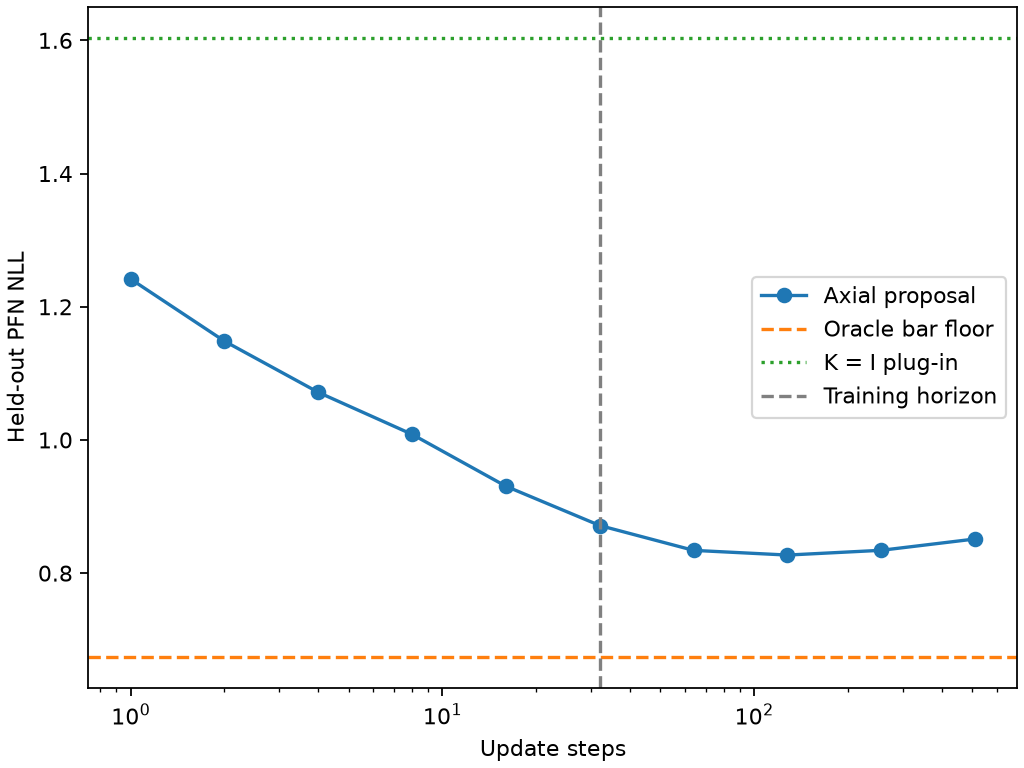
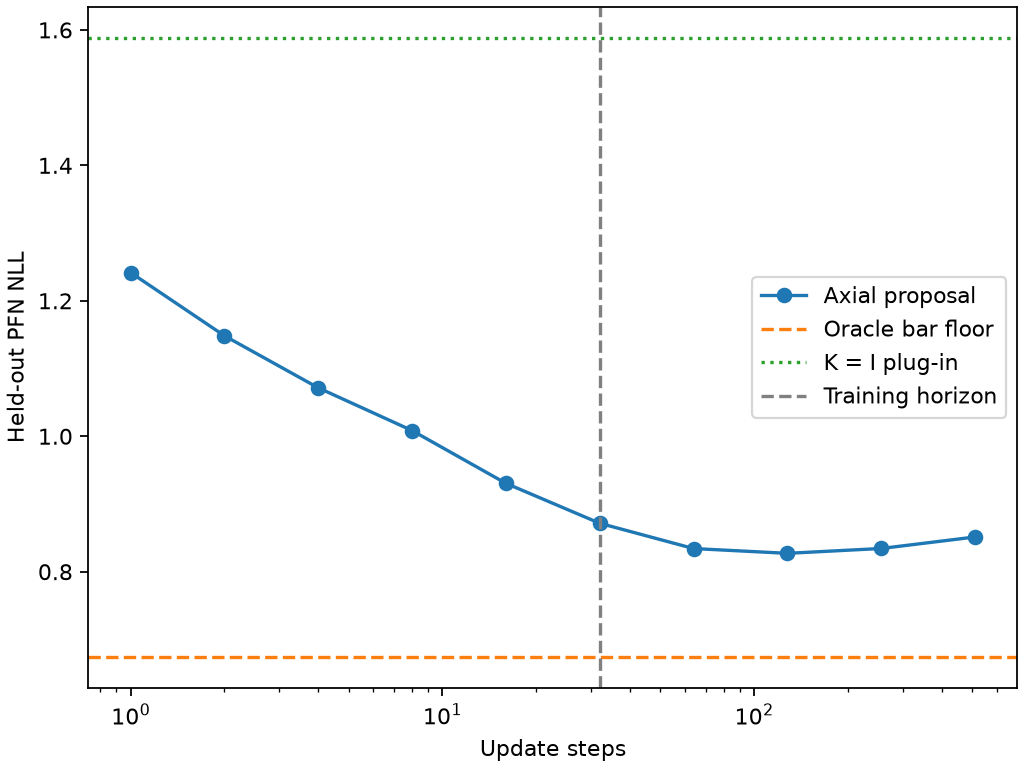
fix simple baseline

diff --git a/runs/identity-nll-patch/patch_images.py b/runs/identity-nll-patch/patch_images.py
@@ -1,0 +1,108 @@
+"""Replay held-out episodes and refresh the two identity NLL plot lines."""
+
+import csv
+import json
+from pathlib import Path
+from tempfile import TemporaryDirectory
+
+import equinox as eqx
+import jax
+import jax.numpy as jnp
+import numpy as np
+
+from experiments.attention_proposal.baselines import (
+    _HIGHEST,
+    _normal_bar_log_masses,
+    _variance_grid,
+)
+from experiments.attention_proposal.run import (
+    sample_structured_episode,
+    write_evaluation,
+)
+from navi.distribution import FullSupportBarDistribution
+from navi.simulation import power_law_eigenvalues
+
+
+@eqx.filter_jit
+def identity_scores(distribution, episode):
+    observations = episode.inputs.observations[:, 0]
+    targets = episode.inputs.targets
+    genetic, residual = _variance_grid(observations.dtype)
+    total = genetic + residual
+    squared = jnp.dot(observations, observations, precision=_HIGHEST)
+    evidence = -0.5 * (observations.size * jnp.log(total) + squared / total)
+    plugin = jnp.sum(jax.nn.softmax(evidence) * genetic)
+    diagonal = jnp.sum(episode.query_factor**2, axis=-1)
+    edges = jnp.asarray(distribution.edges, dtype=observations.dtype)
+    means = jnp.zeros_like(targets)
+    old = _normal_bar_log_masses(means, jnp.full_like(targets, plugin), edges)
+    corrected = _normal_bar_log_masses(means, plugin * diagonal, edges)
+    return distribution.loss(old, targets), distribution.loss(corrected, targets)
+
+
+def stage_figure(run, stage):
+    config = json.loads((run / "run.json").read_text())
+    if not config["structured"] or config["dataset"] is not None:
+        raise ValueError(f"{run} is not an online structured run")
+    distribution = FullSupportBarDistribution(config["bin_edges"])
+    spectrum = jnp.asarray(
+        power_law_eigenvalues(config["n"], config["features"], config["alpha"])
+    )
+    _, _, _, test_key, bootstrap = jax.random.split(jax.random.key(config["seed"]), 5)
+    replay = []
+    for index in range(config["test_episodes"]):
+        episode_key, _ = jax.random.split(jax.random.fold_in(test_key, index))
+        episode = sample_structured_episode(
+            episode_key,
+            spectrum,
+            n=config["n"],
+            c=config["context_count"],
+            q=config["queries"],
+        )
+        replay.append(identity_scores(distribution, episode))
+    old, corrected = np.asarray(jax.device_get(replay)).T
+    if not np.isfinite(corrected).all():
+        raise ValueError(f"{run} has nonfinite corrected scores")
+    with (run / "episodes.csv").open(newline="") as file:
+        rows = [
+            {
+                key: int(value)
+                if key in ("episode", "t", "draw_count")
+                else float(value)
+                for key, value in row.items()
+            }
+            for row in csv.DictReader(file)
+        ]
+    indices = np.array([row["episode"] for row in rows])
+    np.testing.assert_array_equal(np.unique(indices), np.arange(len(old)))
+    saved = np.array([row["identity_nll"] for row in rows])
+    np.testing.assert_allclose(
+        old[indices], saved, rtol=1e-5, atol=1e-5, err_msg=str(run)
+    )
+    for row in rows:
+        row["identity_nll"] = float(corrected[row["episode"]])
+    stage.mkdir()
+    write_evaluation(
+        stage, rows, config["t_max"], np.asarray(jax.random.key_data(bootstrap))
+    )
+    print(
+        f"{run.name}: identity NLL {old.mean():.8f} -> {corrected.mean():.8f}",
+        flush=True,
+    )
+
+
+def main():
+    runs = Path("runs")
+    job_runs = [runs / f"attention-proposal-{job}" for job in (66699324, 66669966)]
+    print(jax.devices(), flush=True)
+    with TemporaryDirectory(dir=Path(__file__).parent) as temporary:
+        for run in job_runs:
+            stage_figure(run, Path(temporary) / run.name)
+        for run in job_runs:
+            image = Path(temporary) / run.name / "prefix_nll.png"
+            image.replace(run / image.name)
+            print(f"Patched {run / image.name}", flush=True)
+
+
+if __name__ == "__main__":
+    main()

diff --git a/experiments/attention_proposal/baselines.py b/experiments/attention_proposal/baselines.py
@@ -95,16 +95,17 @@ def paired_bar_scores(
         jax.nn.log_softmax(evidence)[:, None, None] + component_logits, axis=0
     )
 
-    # With disjoint context and queries, K=I makes their latent effects independent.
-    # Context data identify g+r. The same symmetric prior defines a plug-in g.
+    # Fit g from identity-kernel context evidence, where the data identify g+r.
+    # Predict independent query effects with their original kernel diagonals.
     total_variance = genetic + residual
     y_squared = jnp.dot(observations, observations, precision=_HIGHEST)
     identity_evidence = -0.5 * (
         observations.size * jnp.log(total_variance) + y_squared / total_variance
     )
     genetic_plugin = jnp.sum(jax.nn.softmax(identity_evidence) * genetic)
+    query_self_kernel = jnp.sum(query_factor**2, axis=-1)
     identity_logits = _normal_bar_log_masses(
-        jnp.zeros_like(targets), jnp.full_like(targets, genetic_plugin), edges
+        jnp.zeros_like(targets), genetic_plugin * query_self_kernel, edges
     )
     return distribution.loss(oracle_logits, targets), distribution.loss(
         identity_logits, targets

diff --git a/tests/test_attention_baselines.py b/tests/test_attention_baselines.py
@@ -80,10 +80,15 @@ def test_paired_scores_match_dense_grid_integration():
     log_weights = -0.5 * (y.size * np.log(total) + (y @ y) / total)
     weights = np.exp(log_weights - log_weights.max())
     plug_in = np.average(genetic, weights=weights)
-    identity = _normal_masses(0.0, plug_in, distribution.edges)
+    identity = np.array(
+        [
+            _normal_masses(0.0, plug_in * diagonal, distribution.edges)
+            for diagonal in np.diag(fq @ fq.T)
+        ]
+    )
     expected = [
         distribution.loss(jnp.log(masses), targets),
-        distribution.loss(jnp.log(np.broadcast_to(identity, masses.shape)), targets),
+        distribution.loss(jnp.log(identity), targets),
     ]
     actual = paired_bar_scores(
         distribution, *(jnp.asarray(array) for array in (fc, fq, y, targets))
